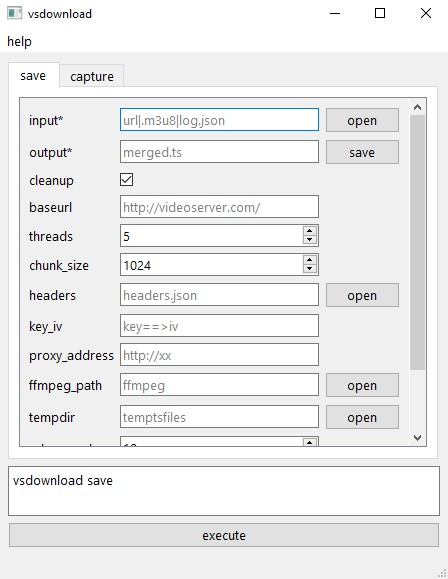
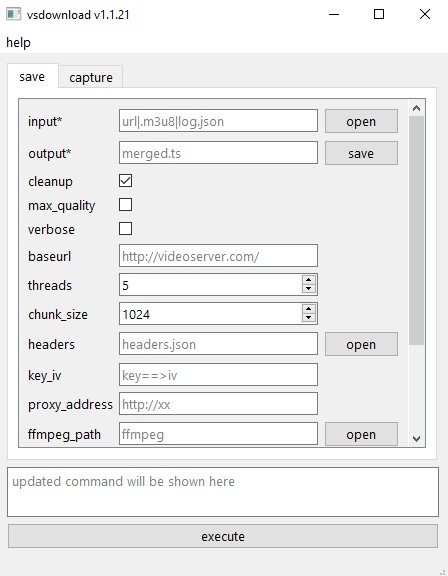
Final Release Commit

diff --git a/vsdownload/vsdownload_ui.py b/vsdownload/vsdownload_ui.py
@@ -151,13 +151,13 @@ class Ui_MainWindow(object):
         self.outputLineEdit_save = QtWidgets.QLineEdit(self.scrollAreaWidgetContents)
         self.outputLineEdit_save.setObjectName("outputLineEdit_save")
         self.save_page_basic_grid_layout.addWidget(self.outputLineEdit_save, 1, 1, 1, 1)
-        self.maxqualityCheckBox = QtWidgets.QCheckBox(self.scrollAreaWidgetContents)
-        self.maxqualityCheckBox.setText("")
-        self.maxqualityCheckBox.setObjectName("maxqualityCheckBox")
-        self.save_page_basic_grid_layout.addWidget(self.maxqualityCheckBox, 3, 1, 1, 1)
-        self.maxqualityLabel = QtWidgets.QLabel(self.scrollAreaWidgetContents)
-        self.maxqualityLabel.setObjectName("maxqualityLabel")
-        self.save_page_basic_grid_layout.addWidget(self.maxqualityLabel, 3, 0, 1, 1)
+        self.max_qualityCheckBox = QtWidgets.QCheckBox(self.scrollAreaWidgetContents)
+        self.max_qualityCheckBox.setText("")
+        self.max_qualityCheckBox.setObjectName("max_qualityCheckBox")
+        self.save_page_basic_grid_layout.addWidget(self.max_qualityCheckBox, 3, 1, 1, 1)
+        self.max_qualityLabel = QtWidgets.QLabel(self.scrollAreaWidgetContents)
+        self.max_qualityLabel.setObjectName("max_qualityLabel")
+        self.save_page_basic_grid_layout.addWidget(self.max_qualityLabel, 3, 0, 1, 1)
         self.verticalLayout_4.addLayout(self.save_page_basic_grid_layout)
         spacerItem = QtWidgets.QSpacerItem(20, 40, QtWidgets.QSizePolicy.Policy.Minimum, QtWidgets.QSizePolicy.Policy.Expanding)
         self.verticalLayout_4.addItem(spacerItem)
@@ -172,7 +172,7 @@ class Ui_MainWindow(object):
         self.capture_page_scroll_area.setWidgetResizable(True)
         self.capture_page_scroll_area.setObjectName("capture_page_scroll_area")
         self.scrollAreaWidgetContents_2 = QtWidgets.QWidget()
-        self.scrollAreaWidgetContents_2.setGeometry(QtCore.QRect(0, 0, 406, 348))
+        self.scrollAreaWidgetContents_2.setGeometry(QtCore.QRect(0, 0, 219, 166))
         self.scrollAreaWidgetContents_2.setObjectName("scrollAreaWidgetContents_2")
         self.verticalLayout_5 = QtWidgets.QVBoxLayout(self.scrollAreaWidgetContents_2)
         self.verticalLayout_5.setObjectName("verticalLayout_5")
@@ -277,7 +277,7 @@ class Ui_MainWindow(object):
         self.baseurlLabel_save.setText(_translate("MainWindow", "baseurl"))
         self.save_page_output_btn.setText(_translate("MainWindow", "save"))
         self.pre_selectLabel.setText(_translate("MainWindow", "pre_select"))
-        self.maxqualityLabel.setText(_translate("MainWindow", "maxquality"))
+        self.max_qualityLabel.setText(_translate("MainWindow", "max_quality"))
         self.base_tab_widget.setTabText(self.base_tab_widget.indexOf(self.save_page_base_stacked_widget), _translate("MainWindow", "save"))
         self.scan_extLabel.setText(_translate("MainWindow", "scan_ext"))
         self.outputLabel_capture.setText(_translate("MainWindow", "output*"))

diff --git a/vsdownload/vsdownload_gui_wrapper.py b/vsdownload/vsdownload_gui_wrapper.py
@@ -41,7 +41,7 @@ class MainWindow(QMainWindow):
         self.update_placeholders_tooltips(self.save_callargs["input"], "inputLineEdit")
         self.update_placeholders_tooltips(self.save_callargs["output"], "outputLineEdit_save")
         self.update_placeholders_tooltips(self.save_callargs["cleanup"], "cleanupCheckBox")
-        self.update_placeholders_tooltips(self.save_callargs["maxquality"], "maxqualityCheckBox")
+        self.update_placeholders_tooltips(self.save_callargs["max_quality"], "max_qualityCheckBox")
         self.update_placeholders_tooltips(self.save_callargs["verbose"], "verboseCheckBox")
         self.update_placeholders_tooltips(self.save_callargs["baseurl"], "baseurlLineEdit_save")
         self.update_placeholders_tooltips(self.save_callargs["threads"], "threadsSpinBox")
@@ -92,7 +92,7 @@ class MainWindow(QMainWindow):
         self.ui.inputLineEdit.cursorPositionChanged.connect(self.update_execute_command)
         self.ui.outputLineEdit_save.cursorPositionChanged.connect(self.update_execute_command)
         self.ui.cleanupCheckBox.stateChanged.connect(self.update_execute_command)
-        self.ui.maxqualityCheckBox.stateChanged.connect(self.update_execute_command)
+        self.ui.max_qualityCheckBox.stateChanged.connect(self.update_execute_command)
         self.ui.verboseCheckBox.stateChanged.connect(self.update_execute_command)
         self.ui.baseurlLineEdit_save.cursorPositionChanged.connect(self.update_execute_command)
         self.ui.threadsSpinBox.valueChanged.connect(self.update_execute_command)
@@ -137,7 +137,7 @@ class MainWindow(QMainWindow):
         if not self.ui.cleanupCheckBox.isChecked():
             args.append("--no-cleanup")
 
-        if self.ui.maxqualityCheckBox.isChecked():
+        if self.ui.max_qualityCheckBox.isChecked():
             args.append("-m")
                         
         if self.ui.verboseCheckBox.isChecked():

diff --git a/vsdownload/vsdownload.py b/vsdownload/vsdownload.py
@@ -33,7 +33,7 @@ def call_save(
         input: str = typer.Argument(..., help="url|.m3u8|log.json"),
         output: str = typer.Option("merged.ts", "--output", "-o", help="path for output of downloaded video stream file", metavar="merged.ts/merged.mp4/merged.mkv"),
         cleanup: bool = typer.Option(True, help="delete temporary downloaded segments, add --no-cleanup flag to use resume capabilities"),
-        maxquality: bool = typer.Option(False, "--max-quality", "-m", help="auto select highest quality sub m3u8 playlist"),
+        max_quality: bool = typer.Option(False, "--max-quality", "-m", help="auto select highest quality sub m3u8 playlist"),
         verbose: bool = typer.Option(False, "--verbose", "-v", help="verbose downloading outputs and logs"),
         baseurl: str = typer.Option(None, "--baseurl", "-b", help="base url for all segments, usally needed for local m3u8 file", metavar="http://videoserver.com/", show_default=False),
         threads: int = typer.Option(5, "--threads", "-t", help="max thread count for parallel threads to download segments", metavar="1-32", min=1, max=32),
@@ -56,7 +56,7 @@ def capture(
     command_capture(Namespace(**locals()))
 
 def save(
-        input: str, output: str = "merged.ts", cleanup: bool = True, maxquality: bool = False,
+        input: str, output: str = "merged.ts", cleanup: bool = True, max_quality: bool = False,
         verbose: bool = False, baseurl: str = None, threads: int = 5, chunk_size: int = 1024,
         headers: str = None, key_iv: str = None, proxy_address: str = None, ffmpeg_path: str = "ffmpeg",
         tempdir: str = "temptsfiles", retry_count: int = 10, timeout: int = 5, pre_select: int = None

diff --git a/setup.py b/setup.py
@@ -11,8 +11,7 @@ def get_version() -> str:
     version_file_data = open(version_file, "rt", encoding="utf-8").read()
     version_regex = r"(?<=^__version__ = ['\"])[^'\"]+(?=['\"]$)"
     try:
-        version = re.findall(version_regex, version_file_data, re.M)[0]
-        return version
+        return re.findall(version_regex, version_file_data, re.M)[0]
     except IndexError:
         raise ValueError(f"Unable to find version string in {version_file}.")
 
@@ -43,7 +42,11 @@ setup(
     install_requires=REQUIREMENTS,
     entry_points={
     "console_scripts": [
-        'vsdownload=vsdownload.vsdownload:app',
-        'vsdownload-gui=vsdownload.vsdownload_gui_wrapper:console_script',
-    ]}
+        "vsdownload=vsdownload.vsdownload:app",
+        "vsdownload-gui=vsdownload.vsdownload_gui_wrapper:console_script",
+    ]},
+    project_urls={
+        "Bug Tracker": "https://github.com/360modder/vsdownload/issues",
+        "Source": "https://github.com/360modder/vsdownload",
+    }
 )        

diff --git a/vsdownload/commands/save.py b/vsdownload/commands/save.py
@@ -144,7 +144,7 @@ class ProcessM3U8:
 
             resolution_bandwidth_sum.append(total_digit_sum)
             
-        if not self.args.maxquality:
+        if not self.args.max_quality:
             selected_playlist = int(input("\nchoose a m3u8 playlist (1, 2, etc.): "))
         else:
             selected_playlist = resolution_bandwidth_sum.index(max(resolution_bandwidth_sum)) + 1

diff --git a/README.md b/README.md
@@ -36,9 +36,8 @@ command line program to download hls video streams from websites, m3u8 files and
 - [x] gui support
 - [x] master m3u8 playlist parsing
 - [x] platform independent
-- [x] realtime file size prediction (arithmetic mean) and download speed
-- [x] resume support
-- [x] retry on error
+- [x] realtime file size prediction (arithmetic mean) and downloading speed
+- [x] resume and retry support
 - [ ] supports live stream download
 
 > Create an issue to request a new feature
@@ -65,7 +64,7 @@ Or install from github repository.
 pip install https://github.com/360modder/vsdownload/archive/master.zip
 ```
 
-Or you can also find a windows [executable](https://github.com/360modder/vsdownload/releases/download/v1.1.02/vsdownload.exe) / [gui wrapper](https://github.com/360modder/vsdownload/releases/download/v1.1.02/vsdownload_gui.zip) from [releases](https://github.com/360modder/vsdownload/releases).
+Or you can also find a windows [executable](https://github.com/360modder/vsdownload/releases/download/v1.1.21/vsdownload.exe) / [gui wrapper](https://github.com/360modder/vsdownload/releases/download/v1.1.21/vsdownload_gui.zip) from [releases](https://github.com/360modder/vsdownload/releases).
 
 ## Usage
 
@@ -102,7 +101,7 @@ $ vsdownload-gui
 
 ## Scripting And Automation
 
-You can also integrate vsdownload save and capture command in any python program. This is useful when you have to automate or create sub website m3u8 downloaders. First you can find or parse the m3u8 uri from a website then call *vsdownload.save()* in order to download it.
+You can also integrate vsdownload save and capture command in any python program. This is useful when you have to automate or create sub website m3u8 downloaders. First you can find or parse the m3u8 uri from a website then call `vsdownload.save()` function in order to download it.
 
 - save command function
 
@@ -112,7 +111,7 @@ from vsdownload import vsdownload
 vsdownload.save("http://videoserver.com/playlist.m3u8", output="merged.mp4")
 ```
 
-- capture and save commands at once
+- capture and save command functions
 
 ```python
 from vsdownload import vsdownload

diff --git a/docs/CLI-API.md b/docs/CLI-API.md
@@ -10,7 +10,7 @@ $ vsdownload [OPTIONS] COMMAND [ARGS]...
 
 **Options**:
 
-* `-v, --version`: show current version of vsdownload
+* `--version`: show current version of vsdownload
 * `--install-completion`: Install completion for the current shell.
 * `--show-completion`: Show completion for the current shell, to copy it or customize the installation.
 * `--help`: Show this message and exit.
@@ -36,7 +36,7 @@ $ vsdownload capture [OPTIONS] URL
 
 **Options**:
 
-* `--output mysite_log.json`: output website m3u8 capture logs in which path  [default: log.json]
+* `-o, --output mysite_log.json`: output website m3u8 capture logs in which path  [default: log.json]
 * `--driver chromedriver.exe`: path of chrome driver for selenium
 * `--scan-ext m3u8/ts/mp4`: scan network logs until --scan-ext extension is found in any one of the request url  [default: ts]
 * `--baseurl / --no-baseurl`: detect baseurl (not recommended)  [default: False]
@@ -60,6 +60,8 @@ $ vsdownload save [OPTIONS] INPUT
 
 * `-o, --output merged.ts/merged.mp4/merged.mkv`: path for output of downloaded video stream file  [default: merged.ts]
 * `--cleanup / --no-cleanup`: delete temporary downloaded segments, add --no-cleanup flag to use resume capabilities  [default: True]
+* `-m, --max-quality`: auto select highest quality sub m3u8 playlist  [default: False]
+* `-v, --verbose`: verbose downloading outputs and logs  [default: False]
 * `-b, --baseurl http://videoserver.com/`: base url for all segments, usally needed for local m3u8 file
 * `-t, --threads 1-32`: max thread count for parallel threads to download segments  [default: 5]
 * `--chunk-size INTEGER`: chunk size for downloading ts files (in kilobytes)  [default: 1024]

diff --git a/CHANGELOG.md b/CHANGELOG.md
@@ -1,19 +1,19 @@
 # VSDownload Changelog (DD/MM/YYYY)
 
-## 1.1.21 (04/11/2021)
+## 1.1.21 (06/11/2021)
 
 Features:
 
 - Verbose downloading output
-- Added **-m/--max-quality** option
+- Added `-m/--max-quality` option
 - Colorful console outputs
 - Optimized downloads and gui wrapper
-- Raises RuntimeError on calling *vsdownload.save()*
+- Raises RuntimeError on calling `vsdownload.save()`
 
 Changes:
 
-- *-o* option alais added to capture command *--output* option
-- Now version checking is only done by *--version* flag only
+- `-o` option alais added to capture command `--output` option
+- Now version checking is only done by `--version` flag only
 
 Bug Fixes:
 
